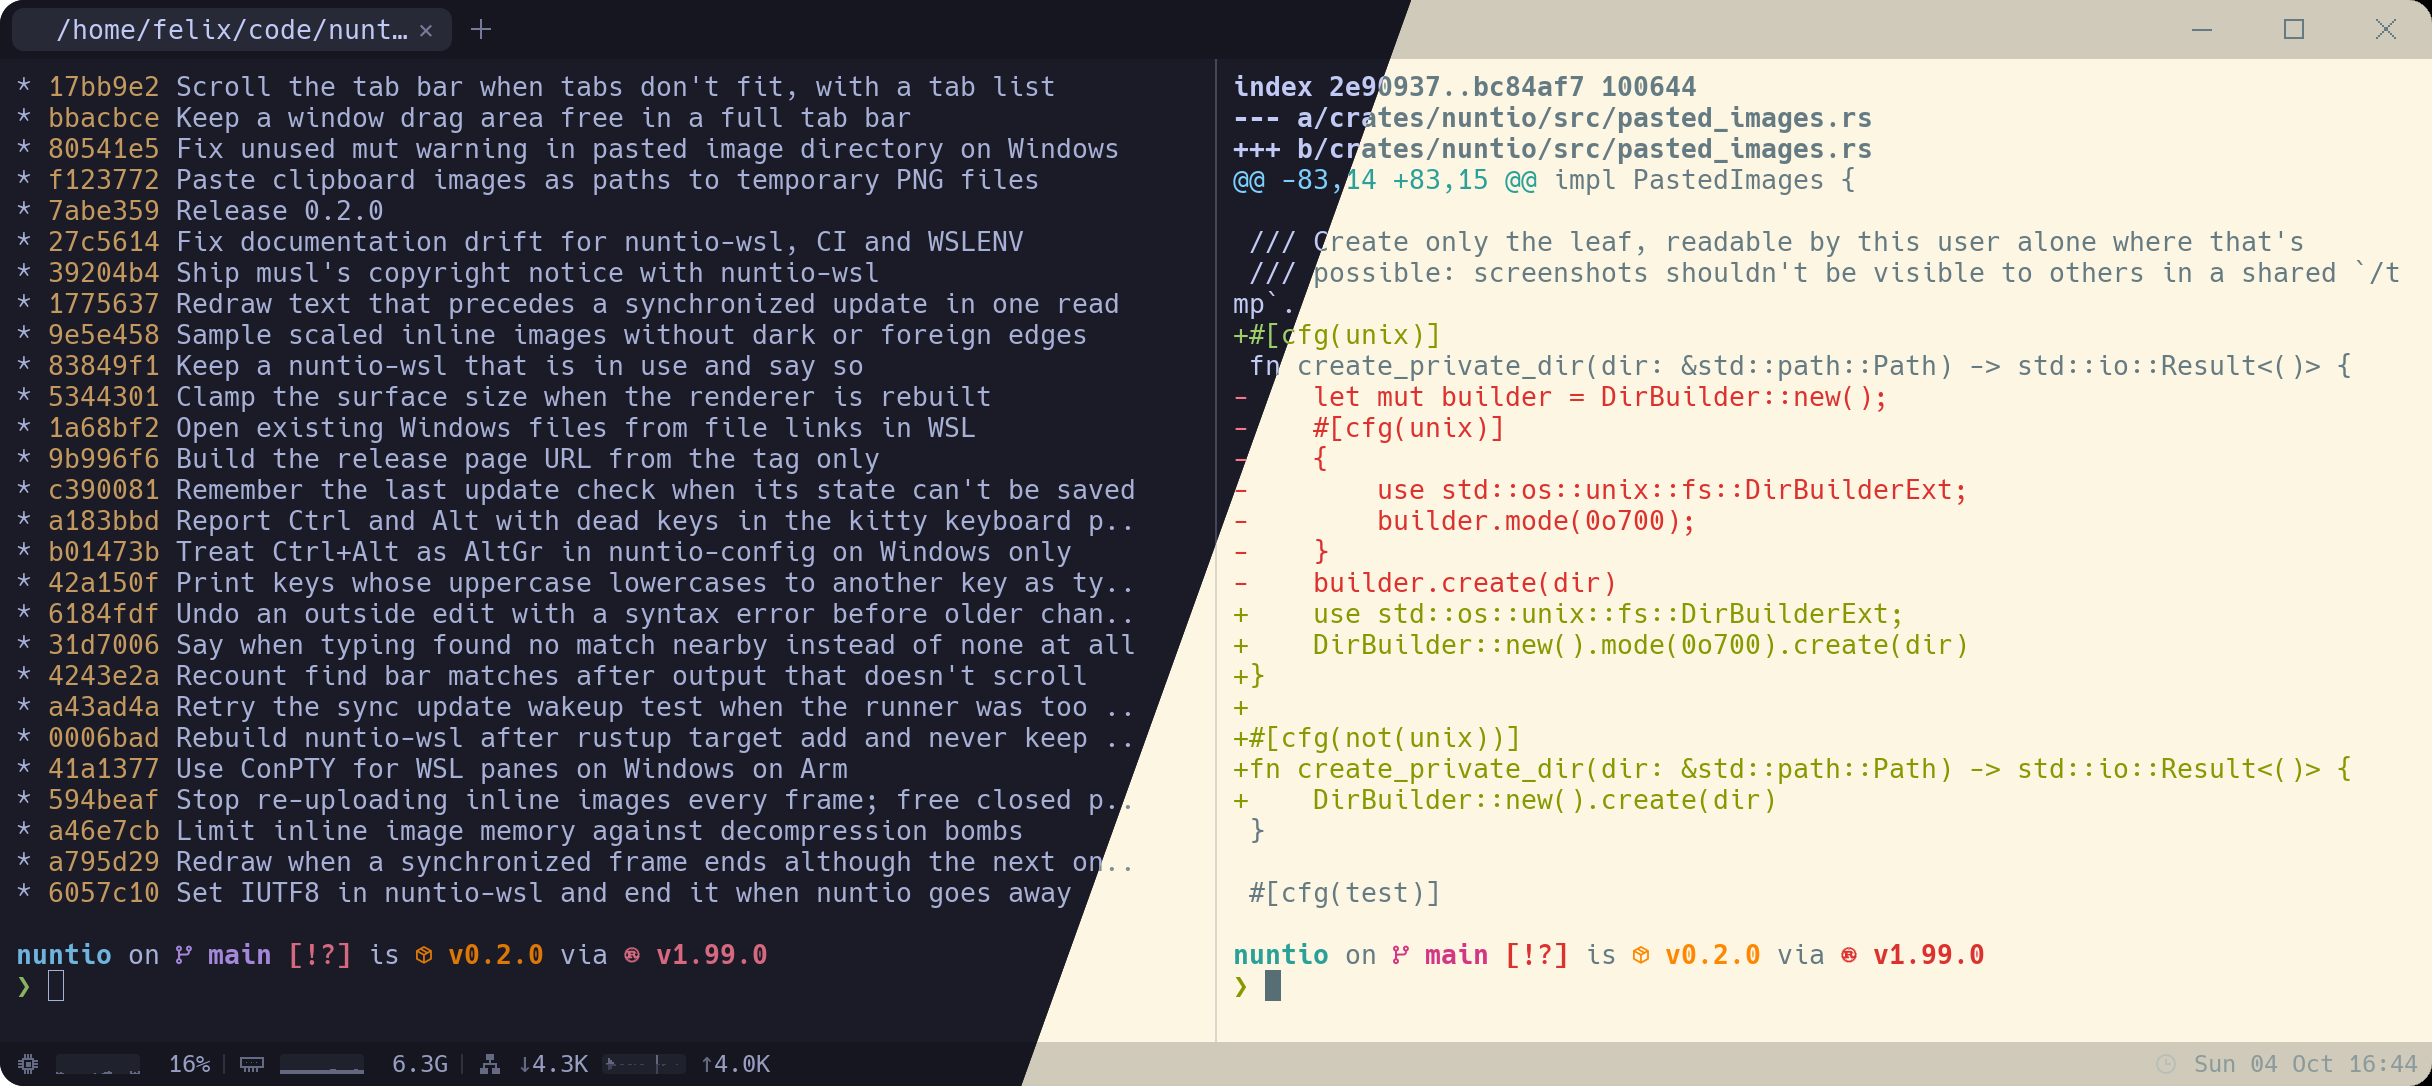
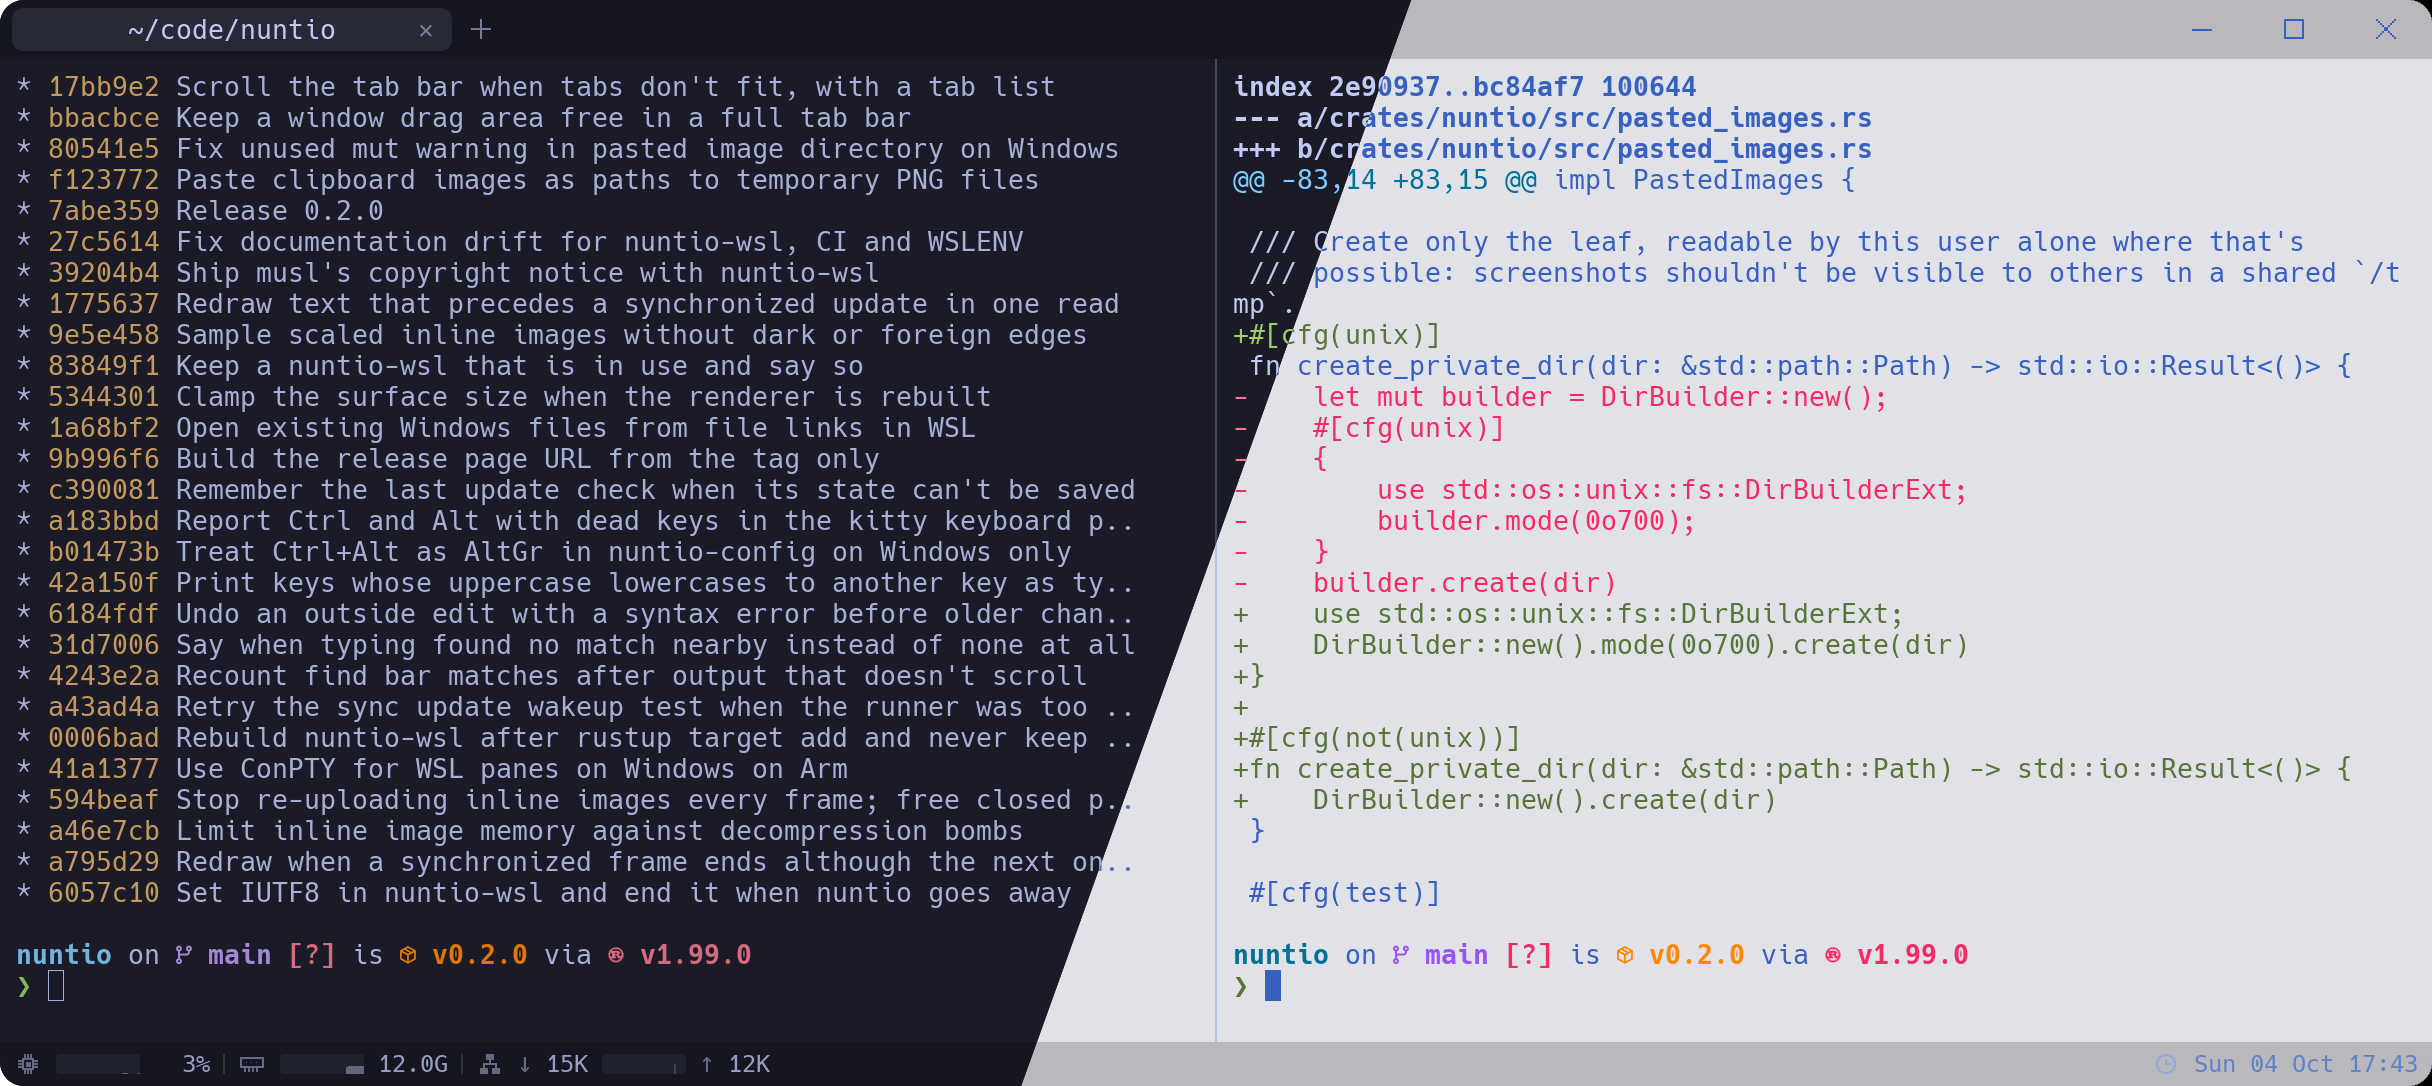
Use Tokyo Night Day for the light half of the theme screenshot

diff --git a/README.md b/README.md
@@ -137,7 +137,7 @@ key = "Ctrl+Shift+N"
 action = "new_tab"
 ```
 
-![The same window in Solarized Light and Tokyo Night, split diagonally](assets/screenshots/themes.png)
+![The same window in Tokyo Night Day and Tokyo Night, split diagonally](assets/screenshots/themes.png)
 
 Changes apply as soon as you save the file. Or run `nuntio-config` in a nuntio tab and change settings in a terminal UI instead of editing TOML. The **[configuration reference](docs/config.md)** covers every option with its default, custom themes, and all keybinding actions.
 

diff --git a/docs/config.md b/docs/config.md
@@ -352,7 +352,7 @@ Themes are color schemes: each one sets the foreground, background, cursor and s
 
 `theme` is one name, or a pair `theme = { light = "…", dark = "…" }` that follows the OS appearance. Other keys inside `theme = { … }` are an error, not a warning.
 
-![The same window in Solarized Light and Tokyo Night, split diagonally](../assets/screenshots/themes.png)
+![The same window in Tokyo Night Day and Tokyo Night, split diagonally](../assets/screenshots/themes.png)
 
 ### Built-in themes
 
